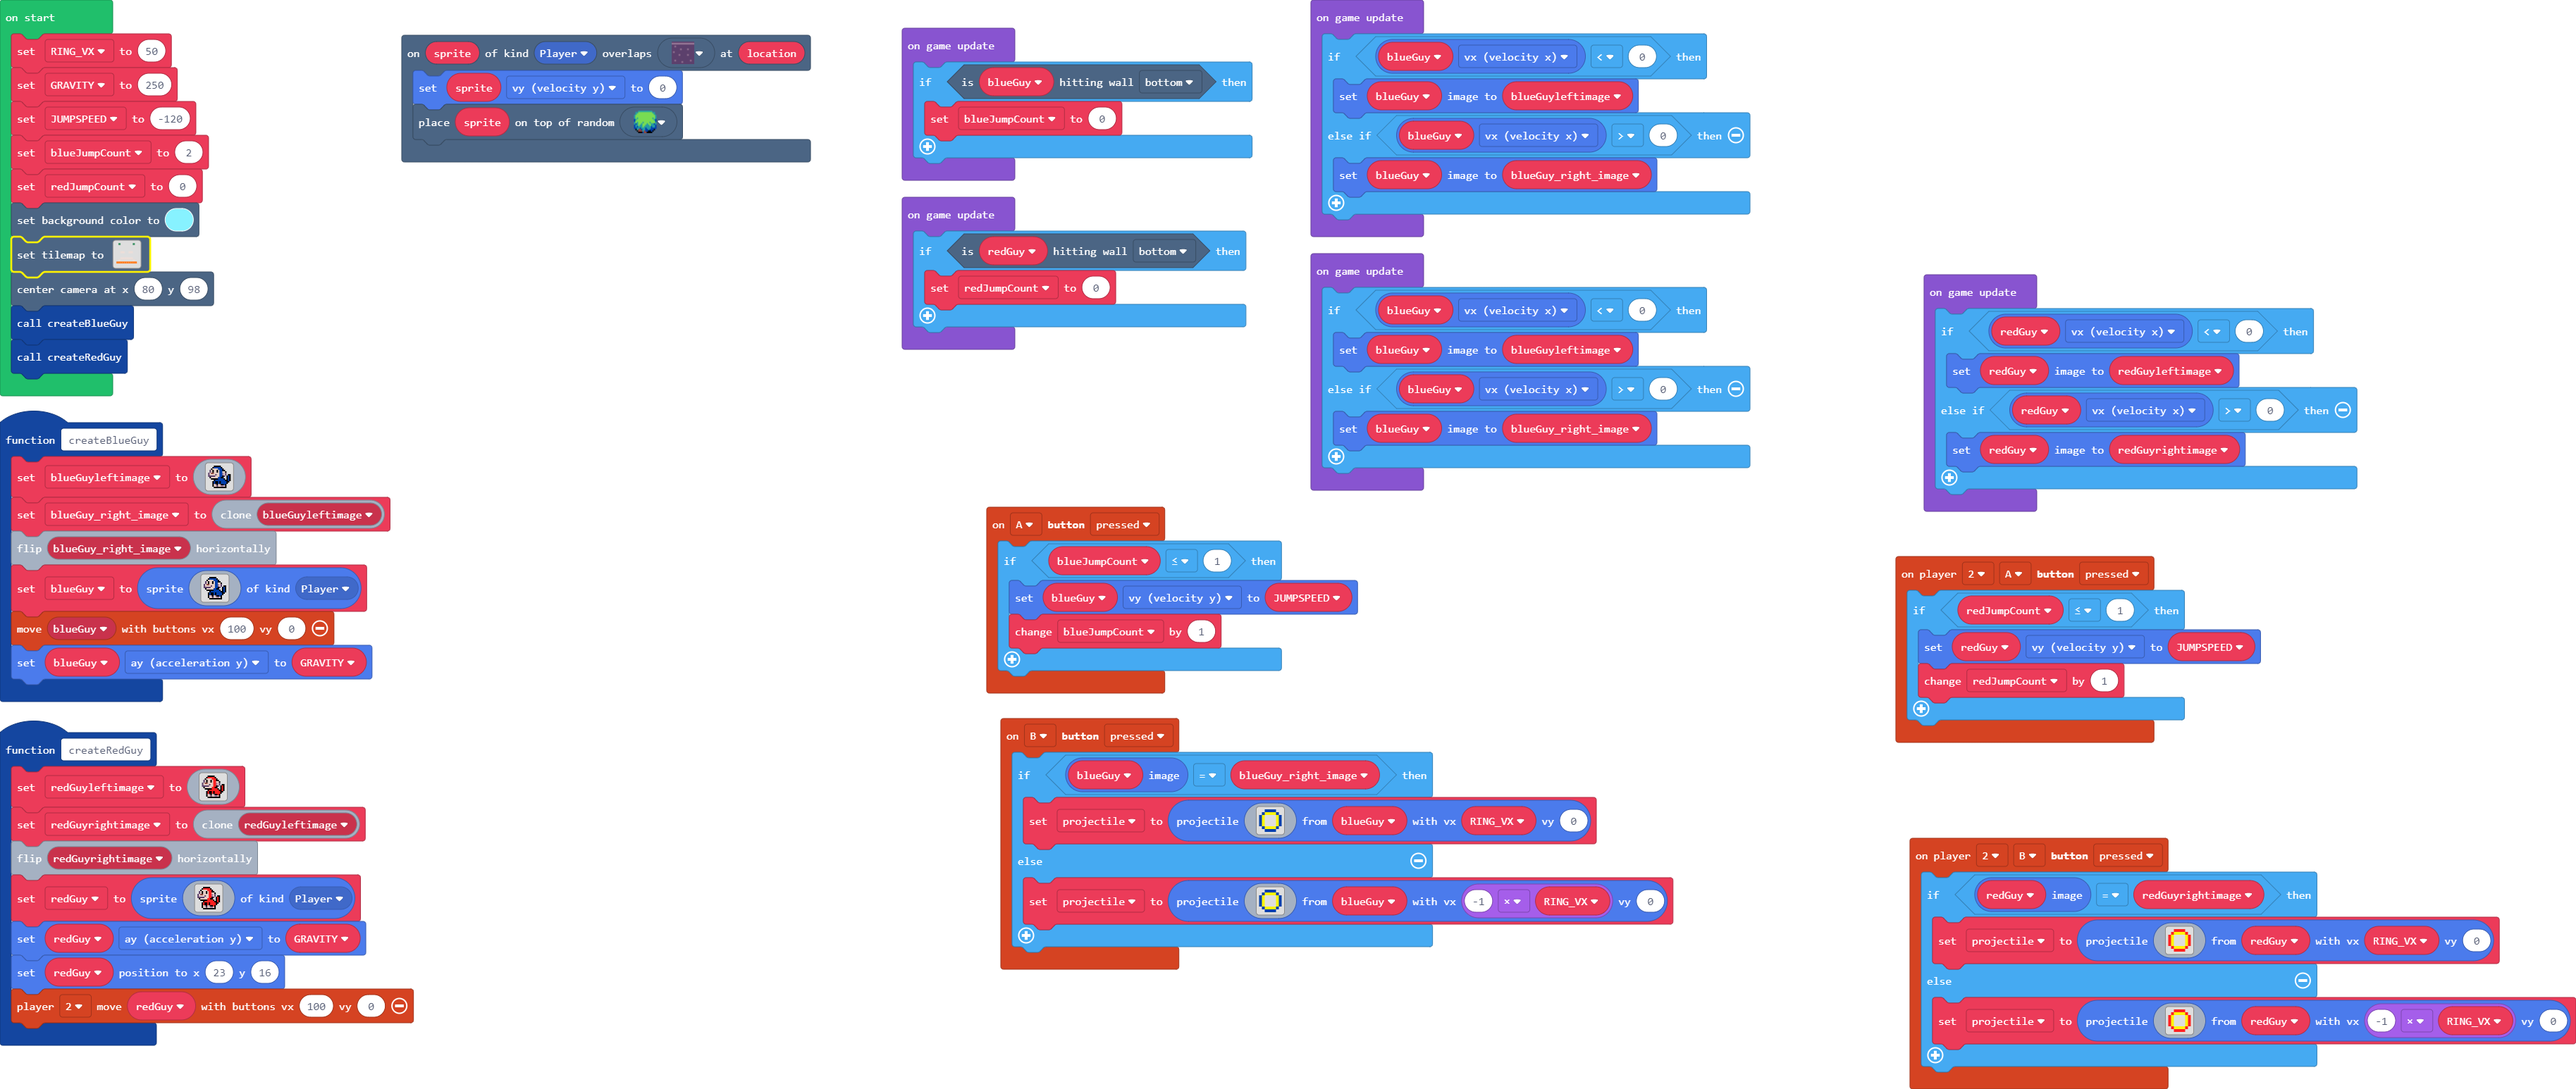
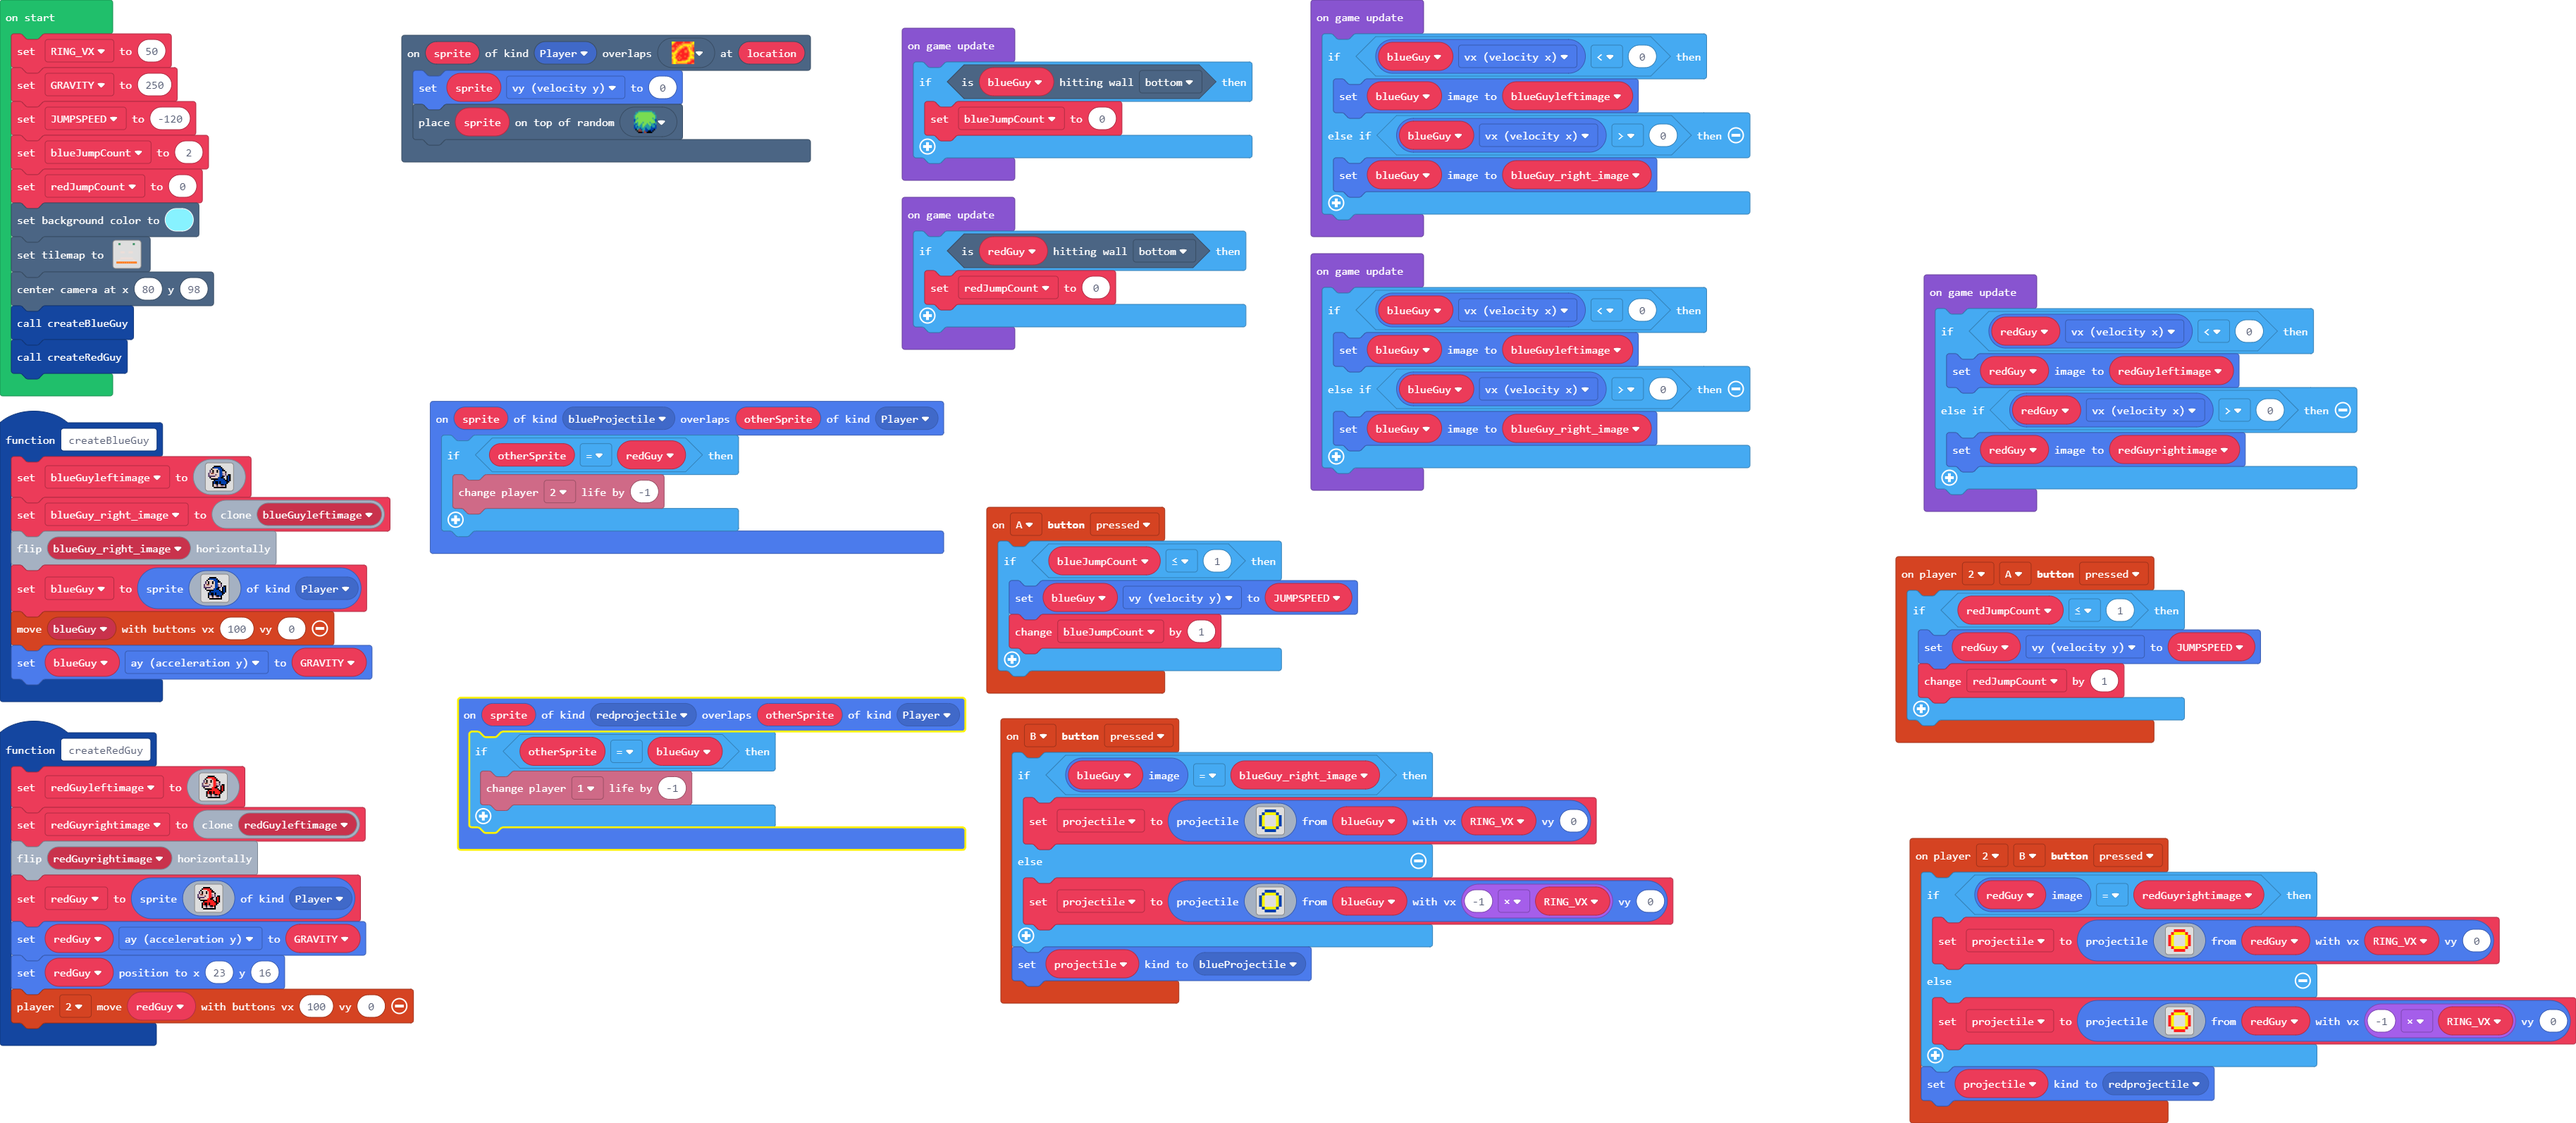
Update main.blocks, main.ts

diff --git a/main.ts b/main.ts
@@ -1,3 +1,8 @@
+namespace SpriteKind {
+    export const redprojectile = SpriteKind.create()
+    export const blueGuy = SpriteKind.create()
+    export const blueProjectile = SpriteKind.create()
+}
 namespace myTiles {
     //% blockIdentity=images._tile
     export const tile0 = img`
@@ -62,6 +67,7 @@ controller.B.onEvent(ControllerButtonEvent.Pressed, function () {
 . . 8 8 8 8 . . 
 `, blueGuy, -1 * RING_VX, 0)
     }
+    projectile.setKind(SpriteKind.blueProjectile)
 })
 controller.player2.onButtonEvent(ControllerButton.A, ControllerButtonEvent.Pressed, function () {
     if (redJumpCount <= 1) {
@@ -69,11 +75,20 @@ controller.player2.onButtonEvent(ControllerButton.A, ControllerButtonEvent.Press
         redJumpCount += 1
     }
 })
+sprites.onOverlap(SpriteKind.redprojectile, SpriteKind.Player, function (sprite, otherSprite) {
+    if (otherSprite == blueGuy) {
+        info.player1.changeLifeBy(-1)
+    }
+})
 controller.A.onEvent(ControllerButtonEvent.Pressed, function () {
     if (blueJumpCount <= 1) {
         blueGuy.vy = JUMPSPEED
         blueJumpCount += 1
     }
+})
+scene.onOverlapTile(SpriteKind.Player, sprites.dungeon.hazardLava0, function (sprite, location) {
+    sprite.vy = 0
+    tiles.placeOnRandomTile(sprite, sprites.builtin.forestTiles0)
 })
 controller.player2.onButtonEvent(ControllerButton.B, ControllerButtonEvent.Pressed, function () {
     if (redGuy.image == redGuyrightimage) {
@@ -99,6 +114,7 @@ controller.player2.onButtonEvent(ControllerButton.B, ControllerButtonEvent.Press
 . . 2 2 2 2 . . 
 `, redGuy, -1 * RING_VX, 0)
     }
+    projectile.setKind(SpriteKind.redprojectile)
 })
 function createBlueGuy () {
     blueGuyleftimage = img`
@@ -142,10 +158,6 @@ c c c c c d d d 8 8 f c . f 8 f
     controller.moveSprite(blueGuy, 100, 0)
     blueGuy.ay = GRAVITY
 }
-scene.onOverlapTile(SpriteKind.Player, sprites.dungeon.darkGroundNorth, function (sprite, location) {
-    sprite.vy = 0
-    tiles.placeOnRandomTile(sprite, sprites.builtin.forestTiles0)
-})
 function createRedGuy () {
     redGuyleftimage = img`
 . . . . f f f f f . . . . . . . 
@@ -189,6 +201,11 @@ c c c c c d d d 2 2 f c . f 2 f
     redGuy.setPosition(23, 16)
     controller.player2.moveSprite(redGuy, 100, 0)
 }
+sprites.onOverlap(SpriteKind.blueProjectile, SpriteKind.Player, function (sprite, otherSprite) {
+    if (otherSprite == redGuy) {
+        info.player2.changeLifeBy(-1)
+    }
+})
 let redGuyleftimage: Image = null
 let blueGuyleftimage: Image = null
 let redGuyrightimage: Image = null
